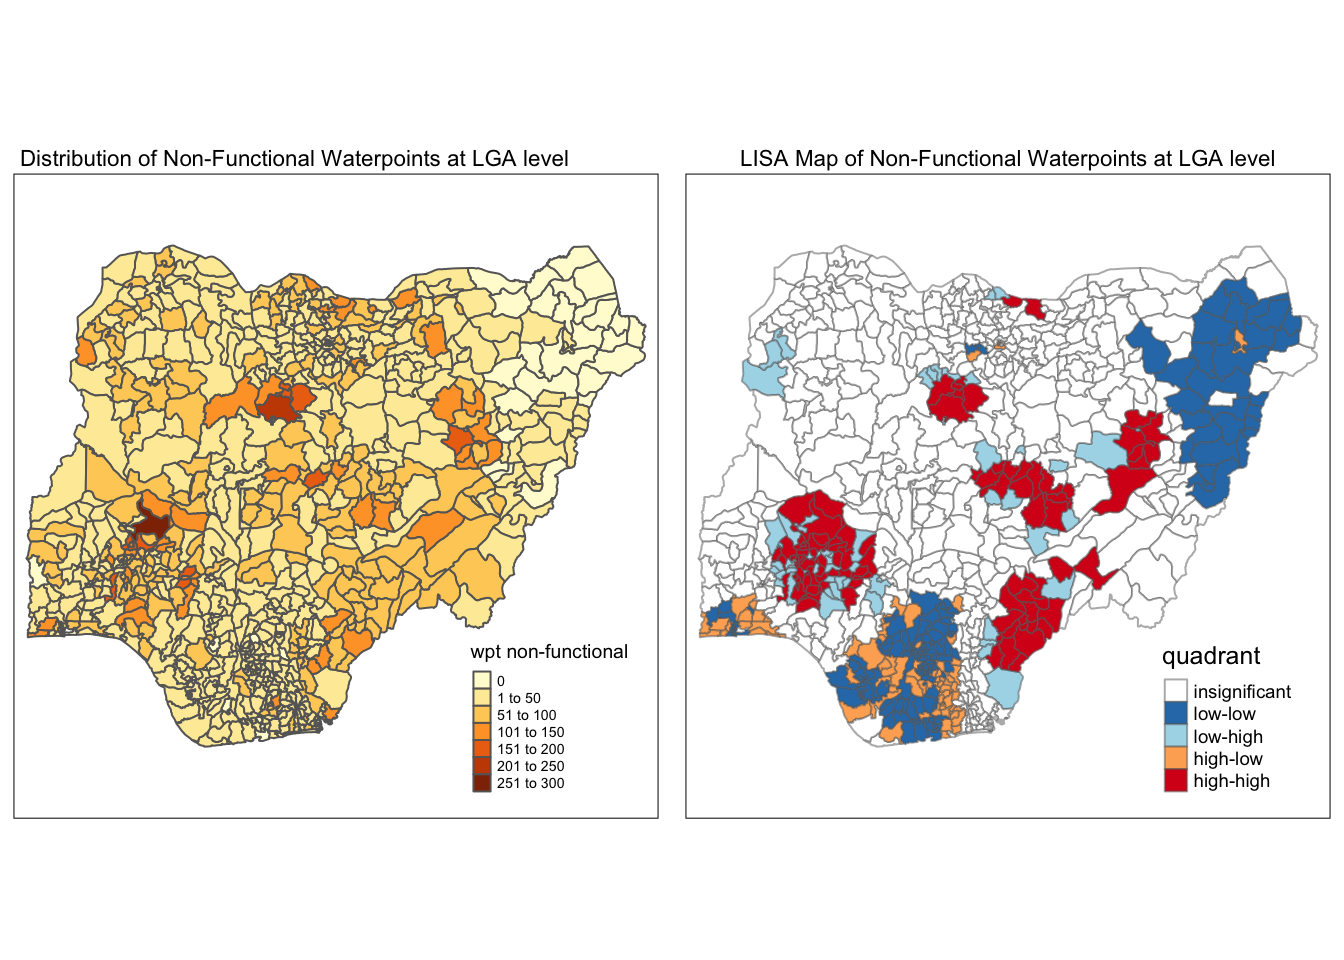
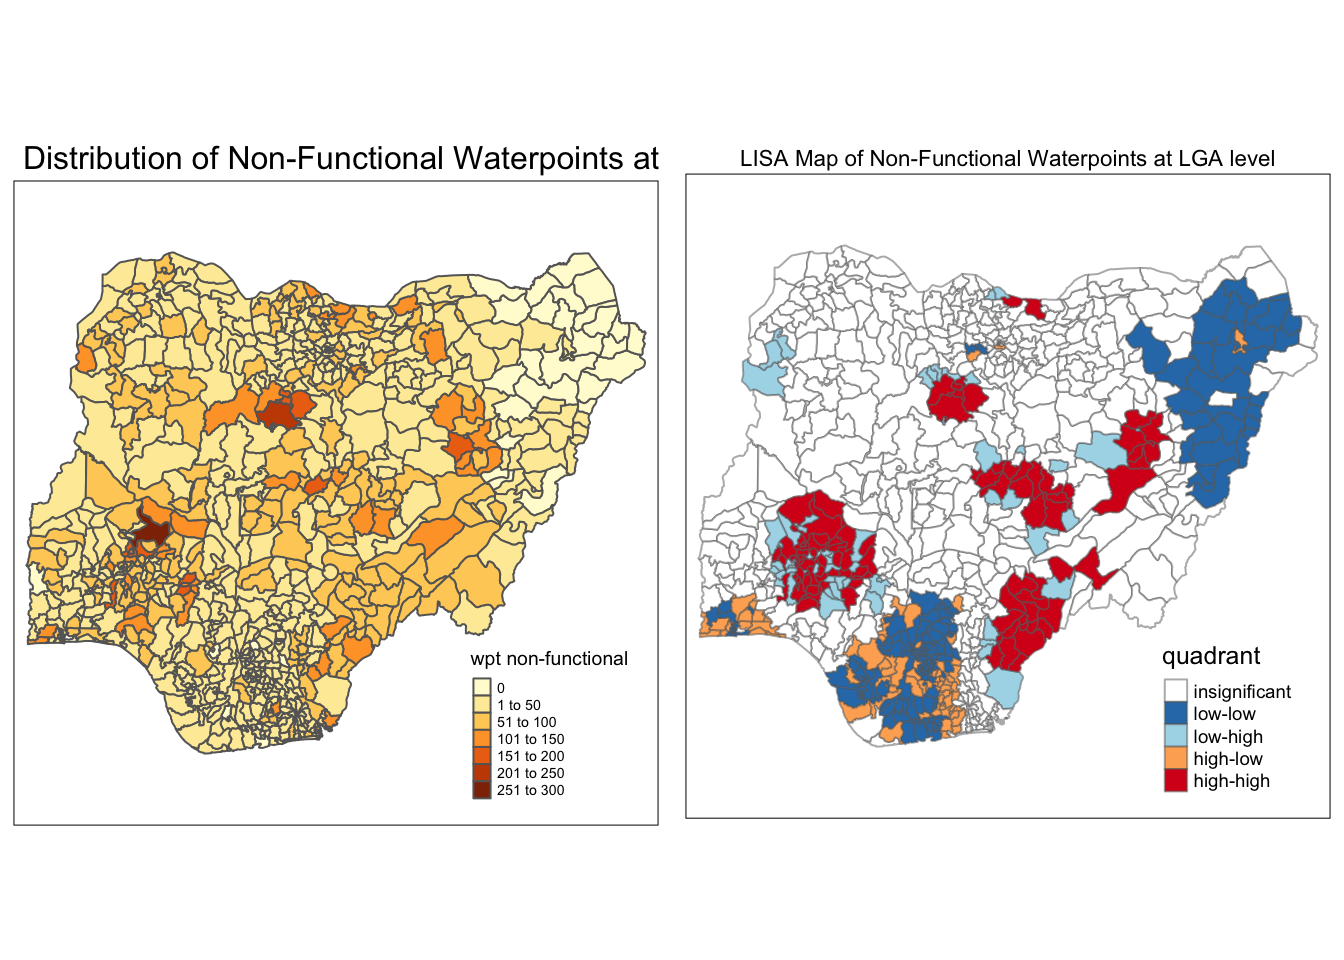
take_home_10th

Changed region(s): [[0.0, 0.25, 0.5, 0.875], [0.0, 0.1562, 0.5, 0.1875]]

diff --git a/_site/Take_home_Ex1/Take_home_Ex1.html b/_site/Take_home_Ex1/Take_home_Ex1.html
@@ -551,22 +551,22 @@ PROJCRS["Minna / Nigeria West Belt",
 <span id="cb19-2"><a href="#cb19-2" aria-hidden="true" tabindex="-1"></a>  <span class="fu">tm_layout</span>(<span class="at">legend.height =</span> <span class="fl">0.25</span>, </span>
 <span id="cb19-3"><a href="#cb19-3" aria-hidden="true" tabindex="-1"></a>            <span class="at">legend.width =</span> <span class="fl">0.35</span>,</span>
 <span id="cb19-4"><a href="#cb19-4" aria-hidden="true" tabindex="-1"></a>            <span class="at">main.title =</span> <span class="st">"Distribution of Total Waterpoints at LGA level"</span>,</span>
-<span id="cb19-5"><a href="#cb19-5" aria-hidden="true" tabindex="-1"></a>            <span class="at">main.title.size =</span> <span class="fl">0.7</span>)</span>
+<span id="cb19-5"><a href="#cb19-5" aria-hidden="true" tabindex="-1"></a>            <span class="at">main.title.size =</span> <span class="fl">1.0</span>)</span>
 <span id="cb19-6"><a href="#cb19-6" aria-hidden="true" tabindex="-1"></a>wp_functional <span class="ot">&lt;-</span> <span class="fu">qtm</span>(nga_wp_1, <span class="st">"wpt functional"</span>) <span class="sc">+</span> </span>
 <span id="cb19-7"><a href="#cb19-7" aria-hidden="true" tabindex="-1"></a>  <span class="fu">tm_layout</span>(<span class="at">legend.height =</span> <span class="fl">0.25</span>, </span>
 <span id="cb19-8"><a href="#cb19-8" aria-hidden="true" tabindex="-1"></a>            <span class="at">legend.width =</span> <span class="fl">0.35</span>,</span>
 <span id="cb19-9"><a href="#cb19-9" aria-hidden="true" tabindex="-1"></a>            <span class="at">main.title =</span> <span class="st">"Distribution of Functional Waterpoints at LGA level"</span>,</span>
-<span id="cb19-10"><a href="#cb19-10" aria-hidden="true" tabindex="-1"></a>            <span class="at">main.title.size =</span> <span class="fl">0.7</span>)</span>
+<span id="cb19-10"><a href="#cb19-10" aria-hidden="true" tabindex="-1"></a>            <span class="at">main.title.size =</span> <span class="fl">1.0</span>)</span>
 <span id="cb19-11"><a href="#cb19-11" aria-hidden="true" tabindex="-1"></a>wp_nonfunctional <span class="ot">&lt;-</span> <span class="fu">qtm</span>(nga_wp_1, <span class="st">"wpt non-functional"</span>) <span class="sc">+</span> </span>
 <span id="cb19-12"><a href="#cb19-12" aria-hidden="true" tabindex="-1"></a>  <span class="fu">tm_layout</span>(<span class="at">legend.height =</span> <span class="fl">0.25</span>, </span>
 <span id="cb19-13"><a href="#cb19-13" aria-hidden="true" tabindex="-1"></a>            <span class="at">legend.width =</span> <span class="fl">0.35</span>,</span>
 <span id="cb19-14"><a href="#cb19-14" aria-hidden="true" tabindex="-1"></a>            <span class="at">main.title =</span> <span class="st">"Distribution of Non-Functional Waterpoints at LGA level"</span>,</span>
-<span id="cb19-15"><a href="#cb19-15" aria-hidden="true" tabindex="-1"></a>            <span class="at">main.title.size =</span> <span class="fl">0.7</span>)</span>
+<span id="cb19-15"><a href="#cb19-15" aria-hidden="true" tabindex="-1"></a>            <span class="at">main.title.size =</span> <span class="fl">1.0</span>)</span>
 <span id="cb19-16"><a href="#cb19-16" aria-hidden="true" tabindex="-1"></a>unknown <span class="ot">&lt;-</span> <span class="fu">qtm</span>(nga_wp_1, <span class="st">"wpt unknown"</span>) <span class="sc">+</span> </span>
 <span id="cb19-17"><a href="#cb19-17" aria-hidden="true" tabindex="-1"></a>  <span class="fu">tm_layout</span>(<span class="at">legend.height =</span> <span class="fl">0.25</span>, </span>
 <span id="cb19-18"><a href="#cb19-18" aria-hidden="true" tabindex="-1"></a>            <span class="at">legend.width =</span> <span class="fl">0.35</span>,</span>
 <span id="cb19-19"><a href="#cb19-19" aria-hidden="true" tabindex="-1"></a>            <span class="at">main.title =</span> <span class="st">"Distribution of Unknown Waterpoints at LGA level"</span>,</span>
-<span id="cb19-20"><a href="#cb19-20" aria-hidden="true" tabindex="-1"></a>            <span class="at">main.title.size =</span> <span class="fl">0.7</span>)</span>
+<span id="cb19-20"><a href="#cb19-20" aria-hidden="true" tabindex="-1"></a>            <span class="at">main.title.size =</span> <span class="fl">1.0</span>)</span>
 <span id="cb19-21"><a href="#cb19-21" aria-hidden="true" tabindex="-1"></a><span class="fu">tmap_arrange</span>(total, wp_functional, wp_nonfunctional, unknown, <span class="at">asp=</span><span class="dv">1</span>, <span class="at">ncol=</span><span class="dv">2</span>) </span></code><button title="Copy to Clipboard" class="code-copy-button"><i class="bi"></i></button></pre></div>
 <div class="cell-output-display">
 <p><img src="Take_home_Ex1_files/figure-html/unnamed-chunk-17-1.png" class="img-fluid" width="1344"></p>
